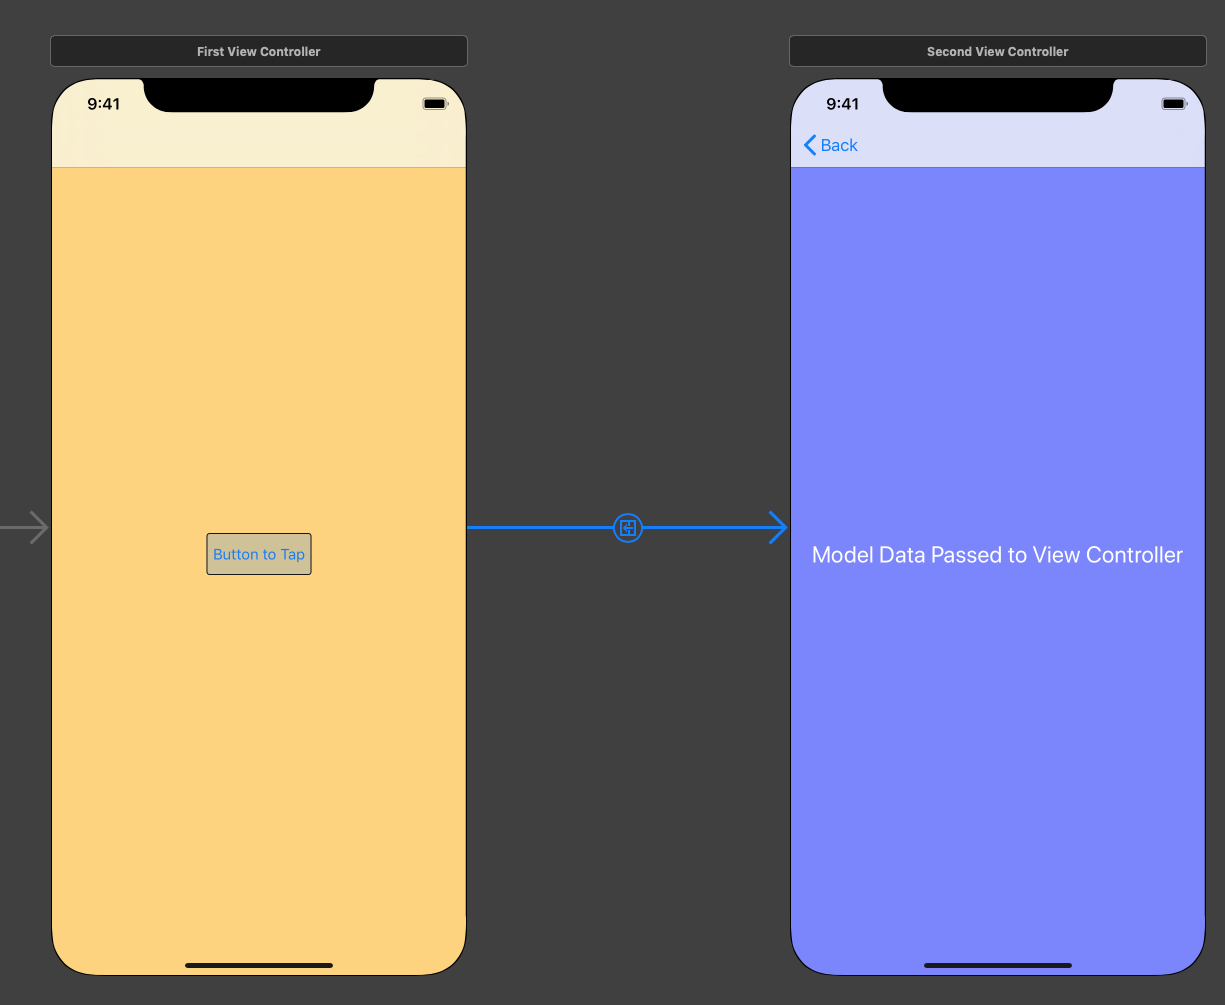
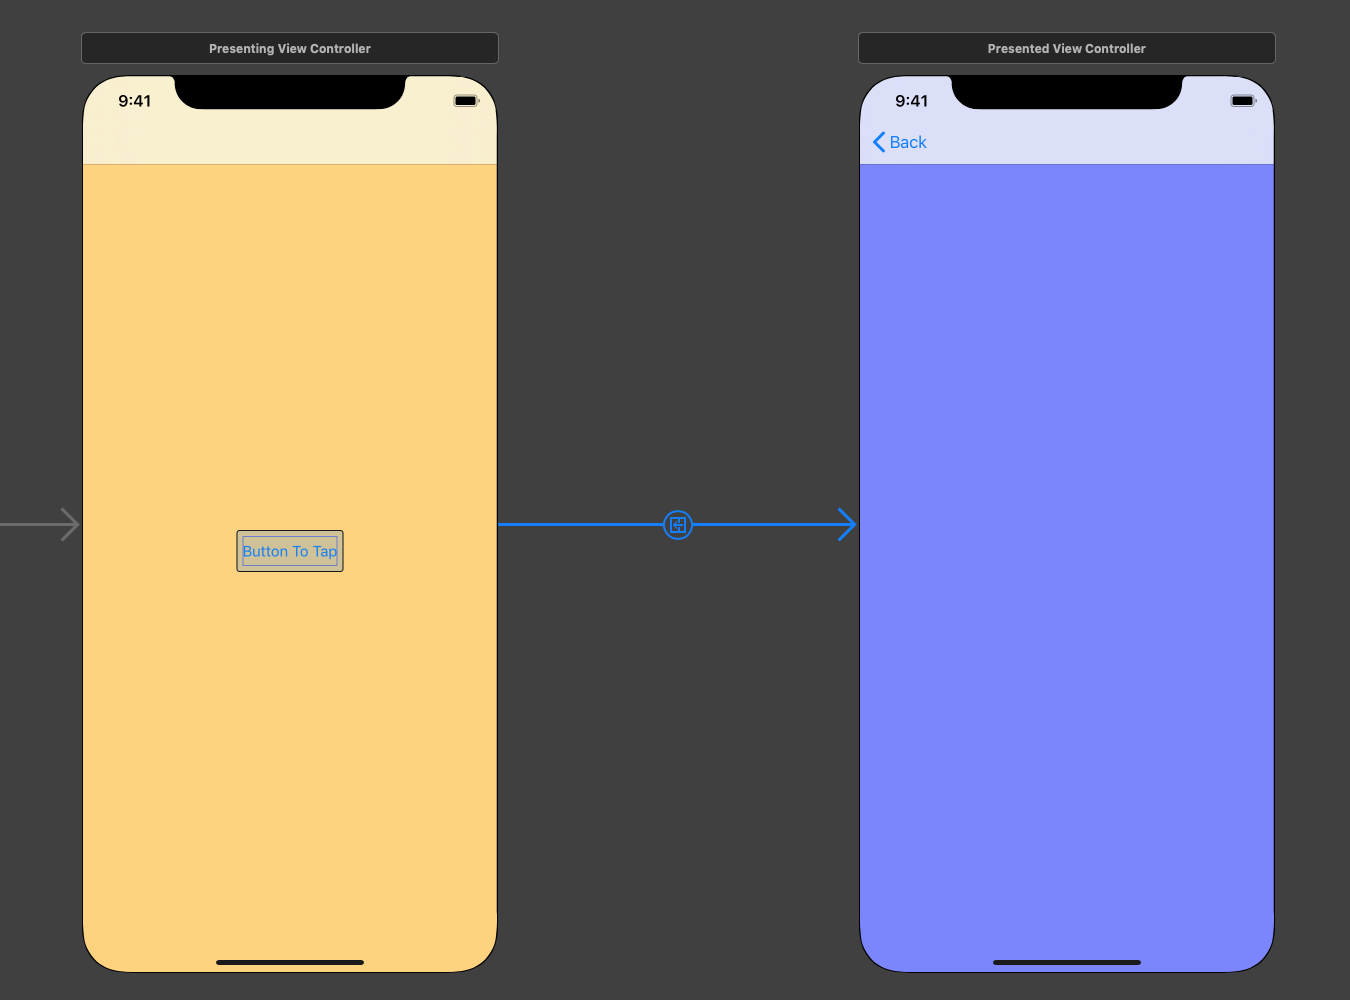
Provide a target for the ButtonToTap
This required adding a second view controller and a segue from the
button to the second view controller (called the
PresentedViewController). To enable navigation back to the
PresentingViewController, it is embedded in a navigation controller.

diff --git a/ButtonSegue/ButtonSegueTests/PresentingViewControllerTests.swift b/ButtonSegue/ButtonSegueTests/PresentingViewControllerTests.swift
@@ -17,4 +17,11 @@ class PresentingViewControllerTests: XCTestCase {
         sut.loadViewIfNeeded()
         XCTAssertNotNil(sut.buttonToTap, "The view controller shall have a button to tap.")
     }
+
+    func test_buttonToTap_hasATarget() {
+        let storyboard = UIStoryboard(name: "Main", bundle: nil)
+        let sut = storyboard.instantiateViewController(withIdentifier: "PresentingViewController") as! PresentingViewController
+        sut.loadViewIfNeeded()
+        XCTAssertNotNil(sut.buttonToTap.allTargets.first, "The button to tap shall have at least one target.")
+    }
 }

diff --git a/ButtonSegue/ButtonSegue/PresentedViewController.swift b/ButtonSegue/ButtonSegue/PresentedViewController.swift
@@ -1,0 +1,12 @@
+//
+//  PresentedViewController.swift
+//  ButtonSegue
+//
+//  Created by Simon Rofe on 19/8/19.
+//  Copyright © 2019 Simon Rofe. All rights reserved.
+//
+
+import UIKit
+
+class PresentedViewController: UIViewController {
+}
